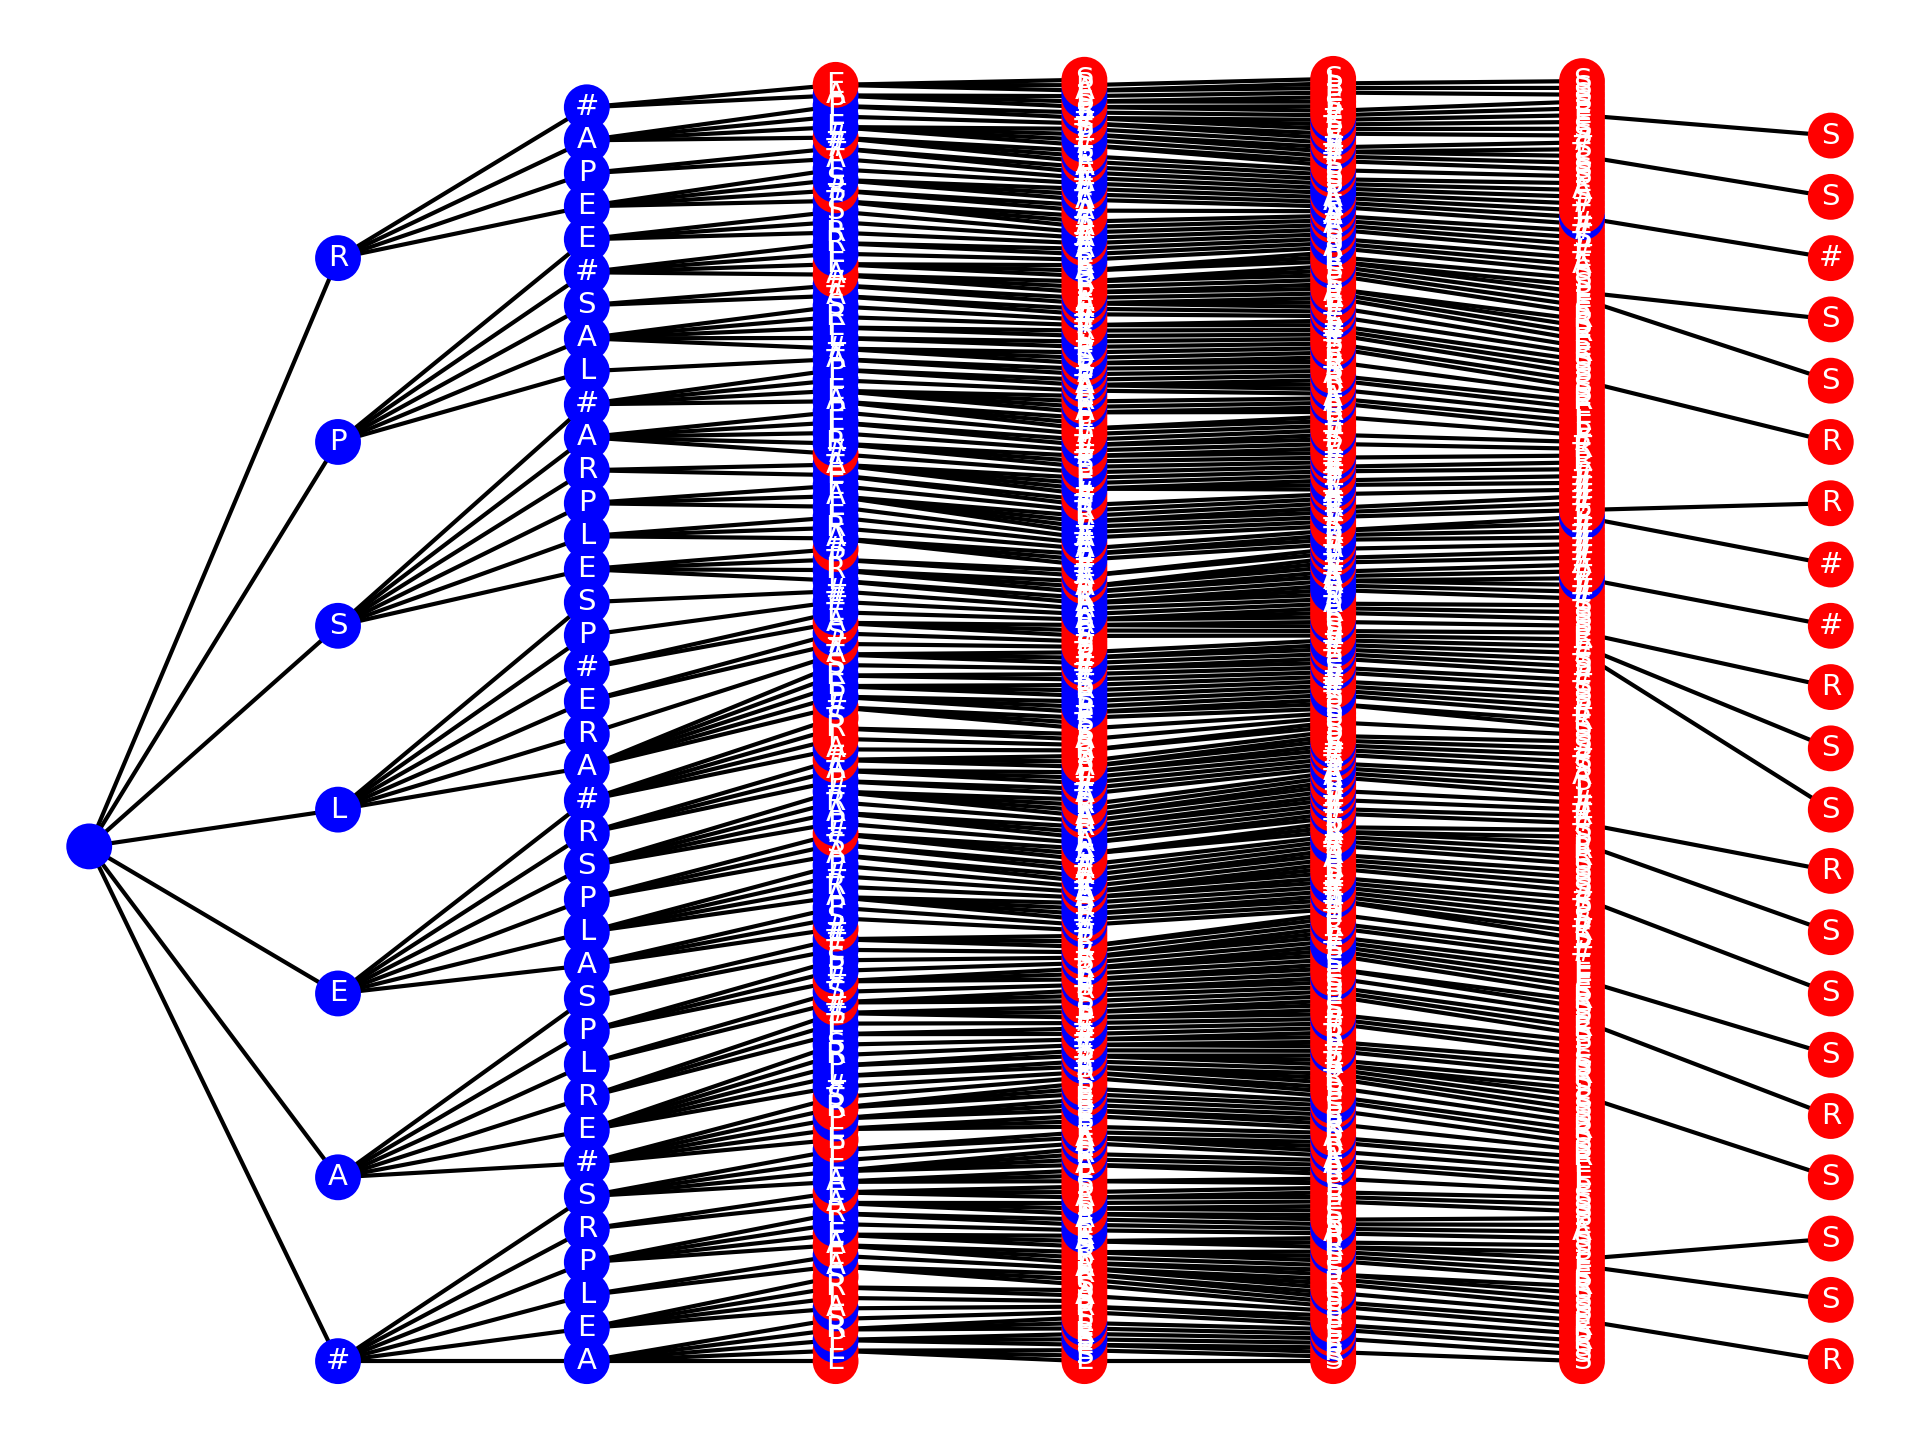
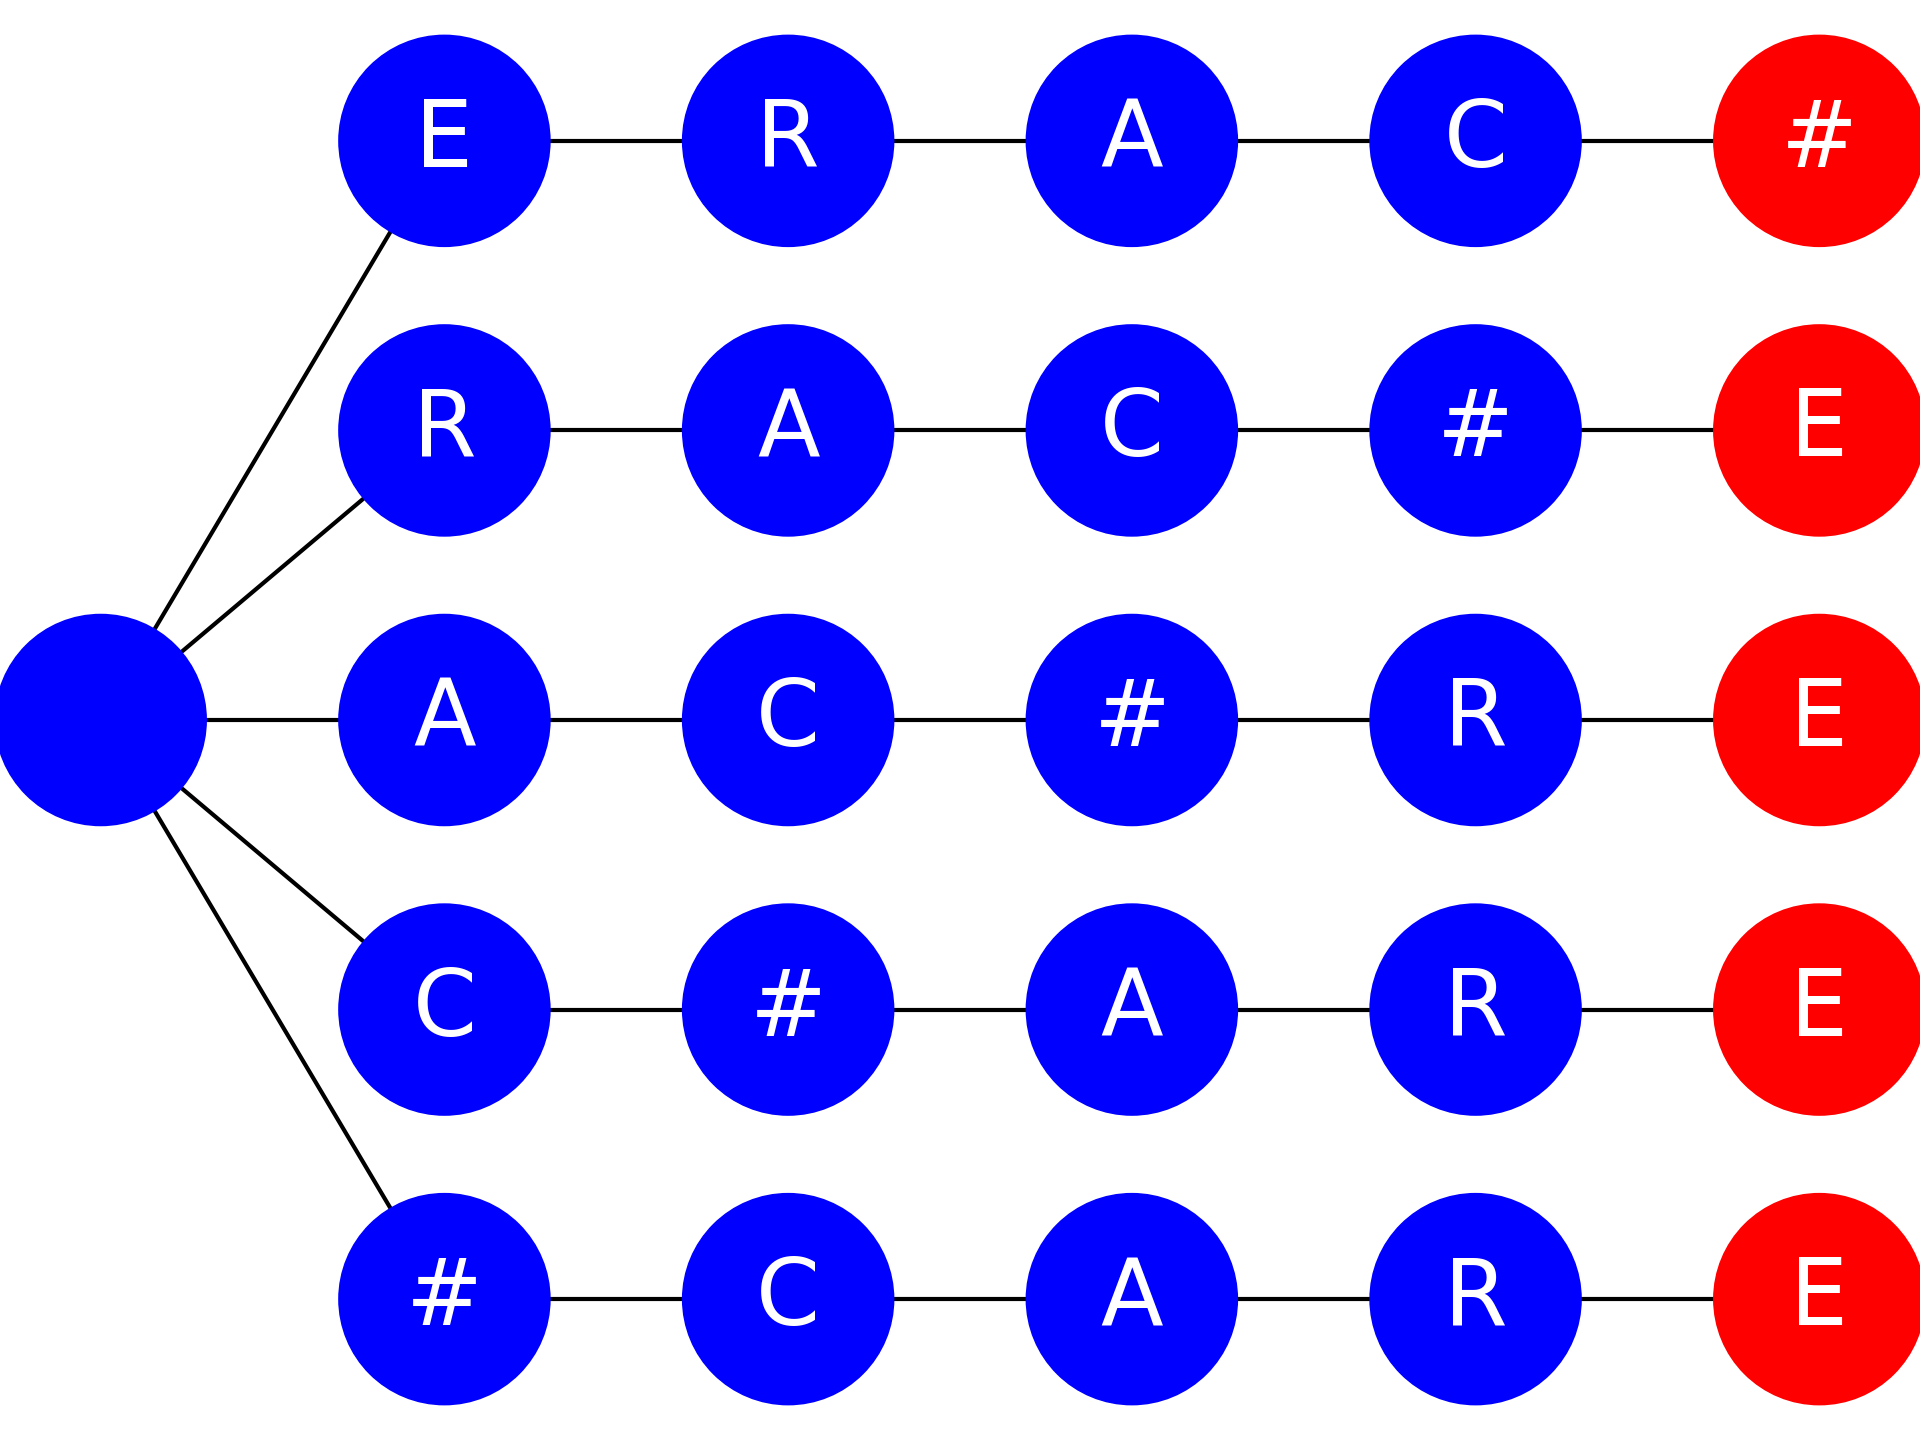
tryna dawg

diff --git a/word_solve.py b/word_solve.py
@@ -1,0 +1,73 @@
+from string import ascii_uppercase
+
+board = [
+    'T', 'R', 'U', 'D',
+    'I', 'E', 'S', 'M',
+    'L', 'E', 'W', 'O',
+    'T', 'S', 'L', 'N'
+]
+
+class Node:
+    def __init__(self, parent, value):
+        self.parent = parent
+        self.value = value
+        self.nexts = []
+
+    def add(self, value):
+        if n := self.next(value):
+            return n
+        n = Node(self, value)
+        self.nexts.append(n)
+        return n
+
+    def next(self, value):
+        for i in self.nexts:
+            if i.value == value:
+                return i
+        return None
+
+    def valid(self):
+        return bool(self.next('@'))
+
+class Dawg:
+    def __init__(self):
+        self.top_node = Node(None, '#')
+        for i in ascii_uppercase:
+            for j in ascii_uppercase:
+                current = self.top_node
+                for word in open(f"resources/{i}{j}.txt"):
+                    for letter in word:
+                        current = current.add(letter)
+                    current.add('@')
+
+    def trawl(self, s):
+        current = self.top_node
+        for i in s:
+            if current := current.next(i):
+                continue
+            return False
+        return current
+
+dawg = Dawg()
+print("Dawg loaded")
+
+def _solve(board, current_node, current_prefix, current_pos):
+    if current_node.valid():
+        yield current_prefix
+    for dx in [-1, 0, 1]:
+        for dy in [-1, 0, 1]:
+            if dx == 0 and dy == 0: continue
+            p = (current_pos[0] + dx, current_pos[1] + dy)
+            if not(0 <= p[0] < 4 and 0 <= p[1] < 4): continue
+            print(board, p)
+            s = board[p[0]][p[1]]
+            if next_node := current_node.next(s):
+                yield from _solve(board, next_node, current_prefix + s, p)
+
+def solve(board):
+    for (i, row) in enumerate(board):
+        for (j, col) in enumerate(row):
+            yield from _solve(board, dawg.trawl(col), col, (i, j))
+
+print(list(solve(board)))
+    

diff --git a/rap.py b/rap.py
@@ -104,15 +104,15 @@ words = ["CARE"]
 
 import zarf
 
-words = zarf.search('b', 'PEARLS')
-print(words)
+# words = zarf.search('b', 'PEARLS')
+# print(words)
 
 g = Gaddag()
 for w in words:
     g.add(w)
 G, labels, pos, colors = g.to_nx()
 # pos = nx.spring_layout(G)
-nx.draw(G, pos, node_size=100, node_color=colors)
-nx.draw_networkx_labels(G, pos, labels, font_color='white', font_size=7)
+nx.draw(G, pos, node_size=2500, node_color=colors)
+nx.draw_networkx_labels(G, pos, labels, font_color='white', font_size=22)
 plt.savefig("gaddag.png", dpi=300)
 plt.show()
